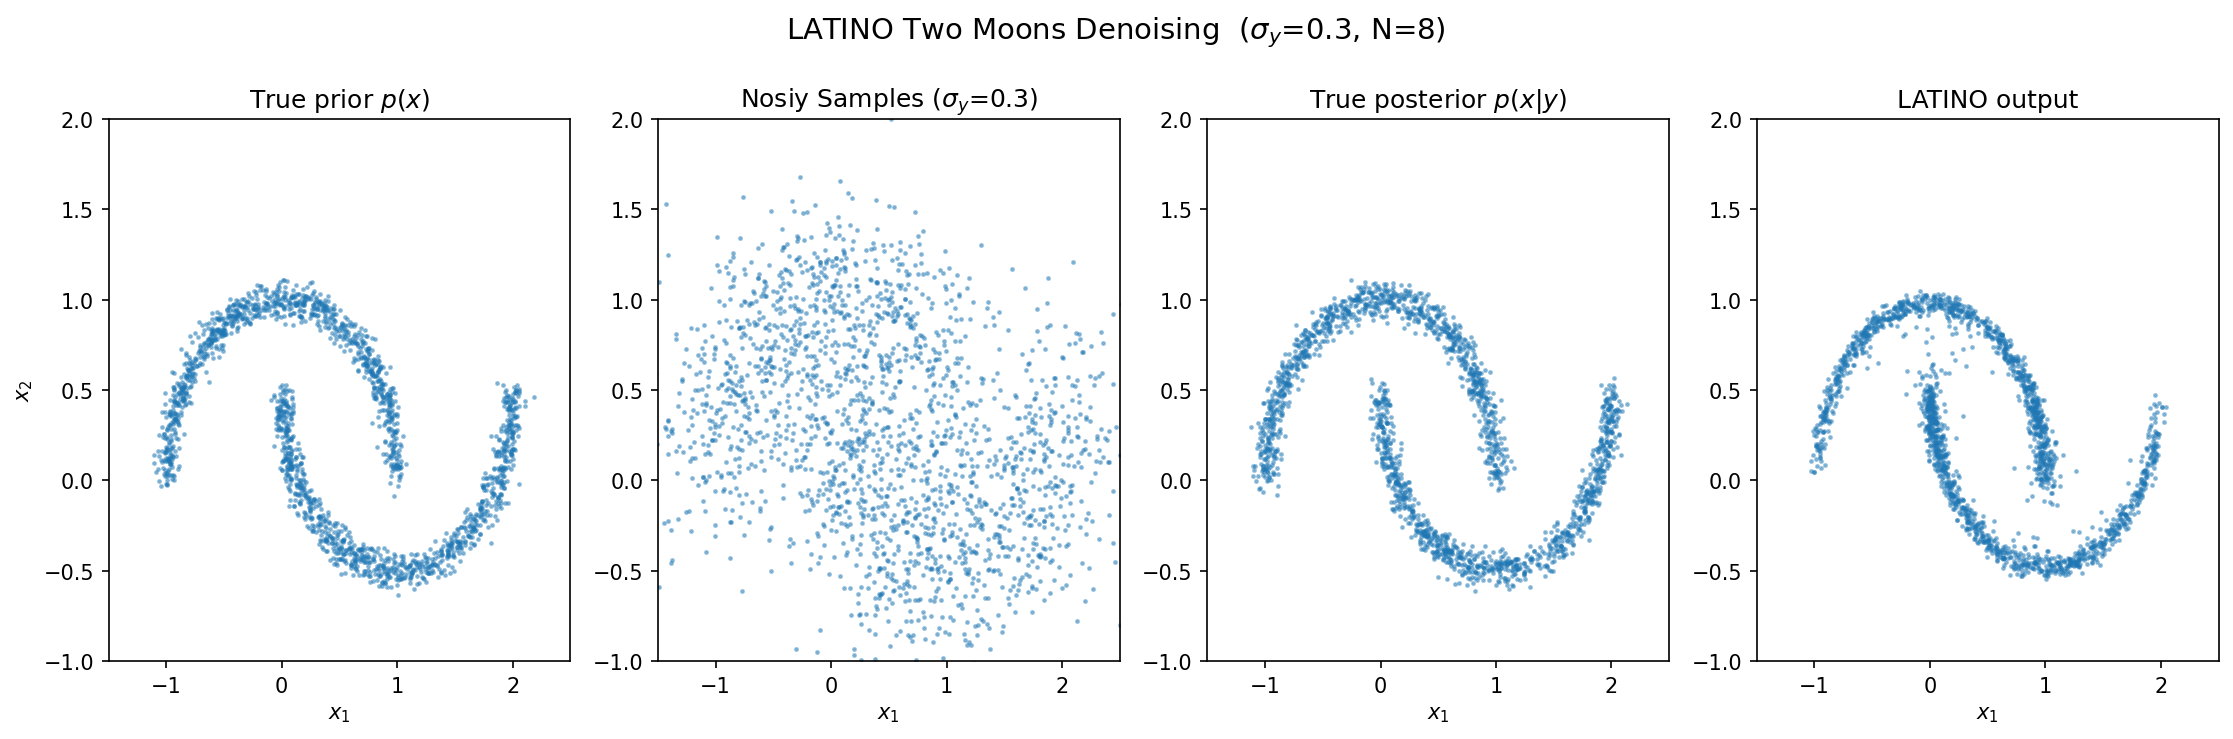
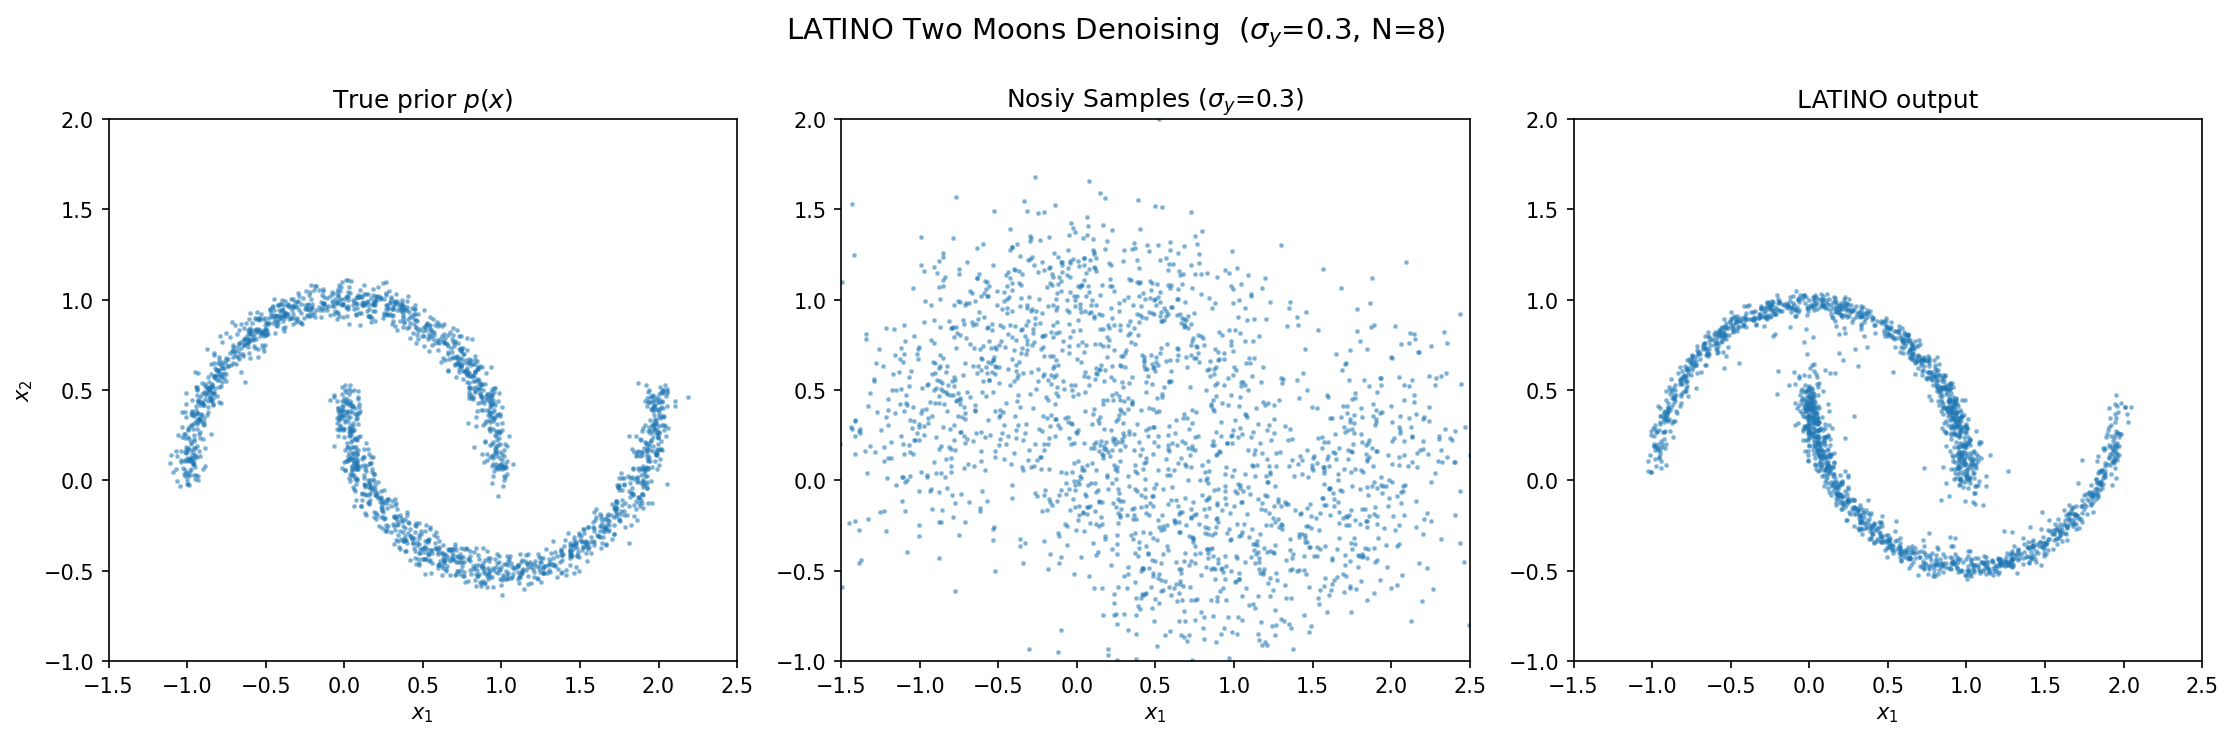
Updated Experiment applying LATINO to the Two Moon Distribution

diff --git a/TwoMoonExperiment/LATINO_Two_Moon_Exp/main.py b/TwoMoonExperiment/LATINO_Two_Moon_Exp/main.py
@@ -45,19 +45,6 @@ def ve_score(x, t, sigma_min, sigma_max):
     post_mean = jax.nn.softmax(log_w) @ jnp.array(coords.T)                
     return -(x - post_mean) / s2
 
-def sample_true_posterior(y_obs, n_samples, rng_key):
-    """Draw exact samples from p(x | y_obs) for the Two Moons prior."""
-    mus = jnp.array(coords.T)                              # (4000, 2)
-    sigma_post2 = sigma ** 2 * sigma_y ** 2 / (sigma ** 2 + sigma_y ** 2)
-    mu_post = sigma_post2 * (mus / sigma ** 2 + y_obs / sigma_y ** 2)  # (4000, 2)
-    s2_marg = sigma ** 2 + sigma_y ** 2
-    log_w = -0.5 * jnp.sum((y_obs - mus) ** 2, axis=-1) / s2_marg
-    w = jax.nn.softmax(log_w)
-    k1, k2 = jr.split(rng_key)
-    idx = jr.choice(k1, mus.shape[0], shape=(n_samples,), p=w)
-    return mu_post[idx] + jnp.sqrt(sigma_post2) * jr.normal(k2, (n_samples, 2))
-
-
 def latino(x_init, y_obs, rng_key, N=N_steps):
     """
     LATINO for a single 2D point.
@@ -109,19 +96,15 @@ x_latino = latino_batch(Y_obs, batch_keys)
 
 # True posterior samples (one per observation)
 key, k4 = jr.split(key)
-post_keys = jr.split(k4, N_batch)
-x_post = jnp.stack([
-    sample_true_posterior(Y_obs[i], 1, post_keys[i])[0]
-    for i in range(N_batch)
-])                                                       
+post_keys = jr.split(k4, N_batch)                                                     
 
 # Plot
-fig, axes = plt.subplots(1, 4, figsize=(15, 5))
+fig, axes = plt.subplots(1, 3, figsize=(15, 5))
 fig.suptitle(f"LATINO Two Moons Denoising  ($\\sigma_y$={sigma_y}, N={N_steps})", fontsize=14)
 
 xlim, ylim = (-1.5, 2.5), (-1.0, 2.0)
-titles = ["True prior $p(x)$", f"Nosiy Samples ($\\sigma_y$={sigma_y})", "True posterior $p(x|y)$", "LATINO output"]
-data   = [x_true, Y_obs, x_post, x_latino]
+titles = ["True prior $p(x)$", f"Nosiy Samples ($\\sigma_y$={sigma_y})", "LATINO output"]
+data   = [x_true, Y_obs, x_latino]
 
 for ax, d, title in zip(axes, data, titles):
     d_np = np.array(d)
@@ -136,41 +119,10 @@ plt.tight_layout()
 plt.savefig("./Plots/comparison.png", dpi=150, bbox_inches="tight")
 plt.close()
 
-# Single observation posterior
-key, k_x, k_noise, k5, k6 = jr.split(key, 5)
-
-# Sample latent and observation
-x_true_star = sample_two_moon_dist(1, k_x)[0]             # true latent
-y_star      = x_true_star + sigma_y * jr.normal(k_noise, (2,))  # observation
-
-# True posterior samples for this observation
-x_post_single = sample_true_posterior(y_star, N_runs, k5)    # (N_runs, 2)
-
-# LATINO samples for this observation
-single_keys = jr.split(k6, N_runs)
-x_latino_single = jax.vmap(lambda key: latino(y_star, y_star, key))(single_keys)
-
-# Plot overlay
-fig, ax = plt.subplots(figsize=(7, 6))
-ax.scatter(*np.array(x_post_single).T,   s=5, alpha=0.4, c="steelblue",  label="True posterior $p(x|y^*)$")
-ax.scatter(*np.array(x_latino_single).T, s=5, alpha=0.4, c="darkorange", label="LATINO")
-ax.scatter(*np.array(y_star), s=30, c="red", marker="*", zorder=5,      label="$y^*$")
-ax.set_xlim(*xlim)
-ax.set_ylim(*ylim)
-ax.set_xlabel("$x_1$")
-ax.set_ylabel("$x_2$")
-ax.set_title(f"Posterior ($\\sigma_y$={sigma_y})")
-ax.legend(markerscale=3)
-plt.tight_layout()
-plt.savefig("./Plots/single_obs_posterior.png", dpi=150, bbox_inches="tight")
-plt.close()
-
-# Above is a single observation posterior, now I want to run TARP so I want many posteriors
-
+# Run TARP to evaluate the quality of the 'posterior'
 def plot_tarp_curve(ecp, alpha, ecp_bootstrap, alpha_bootstrap, sigma_y):
     k_sigma = [1, 2, 3]
-
-
+    
     fig, ax = plt.subplots(1, 1, figsize=(4, 4))
     ax.plot([0, 1], [0, 1], ls='--', color='k', label = "Ideal case")
     ax.plot(alpha, ecp_bootstrap.mean(axis=0), label='TARP')
@@ -183,10 +135,6 @@ def plot_tarp_curve(ecp, alpha, ecp_bootstrap, alpha_bootstrap, sigma_y):
     plt.savefig(out_path, bbox_inches="tight", dpi=300)
     plt.close()
     print(f"  Saved TARP plot to {out_path}")
-
-'''
-Repeat the Posterior for A cases and save them since currently it's one case only
-'''
 
 N_tarp_obs  = 200   # number of test observations
 N_tarp_post = 100  # LATINO posterior samples per observation
